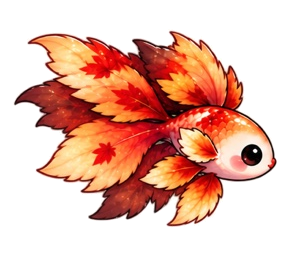
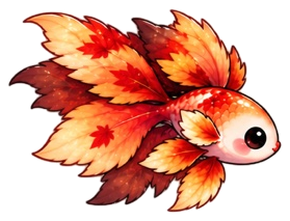
Male Maple Betta: new user art, eating frame removed (reuses swim)

diff --git a/public/js/data.js b/public/js/data.js
@@ -84,7 +84,7 @@ const DATA = {
 
 /** Frame roles: 0 idle, 1-4 swim, 5 eat (only while eating), 6 sleep, 7 rear/turn */
 // Bump SPRITE_V whenever shipped art changes so phones don't keep stale cached PNGs.
-const SPRITE_V = 26;
+const SPRITE_V = 27;
 // Species with a custom hybrid egg icon (assets/eggs/<species_id>.png).
 const EGG_V = 1;
 const EGG_ART = {
